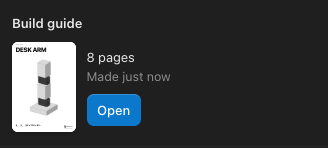
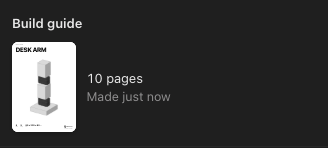
Leave one control for each job in the image viewer and the Build guide card
The image viewer's zoom readout already zoomed to fit, so the Fit button
beside it did the same thing. It's gone, and the readout now has the
Zoom to fit tooltip with its 0 shortcut. On the Build tab, the guide's
cover already opened the guide, so the Open button beside it is gone too.
The card keeps Update for an out-of-date guide, and the toast and Open
Build Guide in Command-K still open it. The Build and Design system
guides, the Make a build guide article and the Build guide troubleshooting
article follow, with both card screenshots recaptured.

Changed region(s): [[0.2439, 0.6216, 0.5183, 0.8649], [0.2439, 0.4865, 0.5183, 0.5946], [0.2439, 0.3514, 0.4268, 0.4324]]

diff --git a/src/design-system/ImageViewerZoomBar.tsx b/src/design-system/ImageViewerZoomBar.tsx
@@ -1,7 +1,8 @@
 import React from 'react';
-import { CloseIcon, FitIcon, MinusIcon, PlusIcon } from './glyphs';
+import { CloseIcon, MinusIcon, PlusIcon } from './glyphs';
 import { IconButton } from './IconButton';
 import { IslandDivider } from './FloatingIsland';
+import { Tooltip } from './Tooltip';
 
 interface ImageViewerZoomBarProps {
   zoom: string;
@@ -28,14 +29,16 @@ export const ImageViewerZoomBar: React.FC<ImageViewerZoomBarProps> = ({
         tooltipSide="bottom"
         onClick={onZoomOut}
       />
-      <button
-        type="button"
-        onClick={onFit}
-        className="h-[32px] min-w-14 px-1.5 rounded-lg text-[13px] text-white/90 tabular hover:bg-white/[0.07] cursor-default"
-        aria-label="Zoom to fit"
-      >
-        {zoom}
-      </button>
+      <Tooltip label="Zoom to fit" shortcut="0" side="bottom">
+        <button
+          type="button"
+          onClick={onFit}
+          className="h-[32px] min-w-14 px-1.5 rounded-lg text-[13px] text-white/90 tabular hover:bg-white/[0.07] cursor-default"
+          aria-label="Zoom to fit"
+        >
+          {zoom}
+        </button>
+      </Tooltip>
       <IconButton
         icon={<PlusIcon className="w-4 h-4" />}
         title="Zoom in"
@@ -43,14 +46,6 @@ export const ImageViewerZoomBar: React.FC<ImageViewerZoomBarProps> = ({
         size="sm"
         tooltipSide="bottom"
         onClick={onZoomIn}
-      />
-      <IconButton
-        icon={<FitIcon className="w-4 h-4" />}
-        title="Zoom to fit"
-        shortcut="0"
-        size="sm"
-        tooltipSide="bottom"
-        onClick={onFit}
       />
       <IslandDivider />
       <IconButton

diff --git a/src/components/build/GuideSection.tsx b/src/components/build/GuideSection.tsx
@@ -85,16 +85,13 @@ const Made: React.FC<{ guide: BuildGuide; record: BuildGuideRecord }> = ({ guide
       <div className={`text-[12.5px] mt-0.5 ${guide.stale ? 'text-amber-400' : 'text-white/50'}`}>
         {guide.stale ? 'Out of date' : `Made ${agoPhrase(record.generatedAt)}`}
       </div>
-      <div className="flex gap-2 mt-2.5">
-        <Button size="sm" variant={guide.stale ? 'secondary' : 'primary'} onClick={() => void guide.open()}>
-          Open
-        </Button>
-        {guide.stale && (
+      {guide.stale && (
+        <div className="flex gap-2 mt-2.5">
           <Button size="sm" variant="primary" onClick={() => void guide.generate()}>
             Update
           </Button>
-        )}
-      </div>
+        </div>
+      )}
     </>
   );
 };

diff --git a/docs/guide/build.md b/docs/guide/build.md
@@ -75,8 +75,8 @@ The Build tab (right panel) and the agent's build tools turn a model into someth
     - **Supplies you add** (`project.extras`; there's no separate Supplies section): + in the header (`AddSupplyMenu`: Power, Wiring, Electronics, Tools) adds one, or one more of a supply already added, and opens its group. Filament isn't offered: it comes from the printed parts, in grams. Every line's quantity is a button (`QtyEditor`) that opens On hand, the count the person owns (saved app-wide, with a toast and Undo); on a line you added it opens Quantity, On hand and Delete (which asks first), and filament lines added by older scenes get On hand and Delete. The agent's note on an extra shows beside the spec.
     - The header's spreadsheet menu shows only when there are lines: CSV Spreadsheet, Markdown, then Buy All and the other stores' links.
     - **Buy All** (`cart.ts`, `bomCart`) fills one Amazon cart from the list: `/gp/aws/cart/add.html` with numbered `ASIN.n` / `Quantity.n` pairs, in line order, for every line with units left to buy and an ASIN (a checked listing's, else a catalog or sourced product link on amazon.com). Quantity is packs of the units left to buy, rounded up: the checked listing's pack size, else one piece (a 1,000 g spool for filament), so 6 servos sold in pairs are 3 and 13 screws sold by the hundred are 1. A line with no ASIN goes to its store instead: a checked or sourced listing elsewhere, else the list price's store page, grouped under the store's host name below Buy All, one item per line, since stores take no shared cart link. Only https links count, an ASIN must pass `parseAsin`, and the cart is always built on amazon.com, so a forged ASIN or a lookalike host never reaches it (§0h). Lines left with no link keep their row link (an Amazon search). Supplies join the cart only when they have a product link (the ones the agent sources); a catalog supply's search stays a search. Buy All is in ⌘K too (listed while the cart has an ASIN). It opens through `openLink` (`utils/openLink.ts`), the app's one external-link path: the system browser on desktop, a new tab in the web demo. No account and no affiliate tag.
-  - **Build guide** (`GuideSection`, `src/guide/`), after the bill of materials: a step-by-step assembly PDF, made with Make Guide (off until the scene has built parts). Making one runs in a worker (`guide.worker.ts`; `generateGuide` packs the parts, the worker measures contacts, plans, draws and writes the HTML, the main thread saves the PDF), so the app stays responsive and you can keep working; a toast with Open says when it's done. While it runs, the card keeps its cover (the new cover replaces it as soon as it's drawn), shows the step being drawn, the time left once it can be estimated, and Stop. A made guide offers Open; an out-of-date one says so in amber and adds Update. ⌘K has the same three as Make Build Guide, Open Build Guide and Update Build Guide (§11). There's no Regenerate: a guide reads Out of date whenever a redraw could come back different. That's when its fingerprint changes (`guideFingerprint`: the title, material, infill as printed on the front pages, built parts, joints and `GUIDE_VERSION`), or when its order search stopped at the 20 s limit (`orderTimedOut` on the record), so a later run may check the steps that say “Order not checked”. Bump `GUIDE_VERSION` in any change to the planner, the drawings or item names that changes what a made guide shows, so every guide redraws. Every scene with built parts keeps a current guide (`useGuideAutoUpdate`, Settings ▸ Build ▸ Build guide ▸ Update automatically, on by default): 15 s after the guide goes out of date, while no agent in the scene is working, it makes or updates the guide quietly, with no toast on success or failure. Background runs go one at a time across tabs. Stop, a failed run or another timed-out order search leaves that version alone until the scene changes again; opening another scene in the tab cancels a run. Steps follow the order `check_assembly` proves (`provenOrder.ts`); parts the planner couldn't place come first by the heuristic, and their steps say “Order not checked”.
-    - **Open** (the cover, the Open button, the toast, the agent's guide link) shows the guide in the app (`GuideViewer`), not the system PDF viewer. The HTML the PDF is printed from is kept beside it (`library/guides/<id>.html`, read with `guide:html`), parsed into pages, each in its own shadow root with one shared stylesheet (`guide/viewer/`), and prefetched at idle. A guide with no saved HTML is regenerated, then opened; Open PDF and Show in Finder regenerate a PDF that was moved or deleted the same way (`withPdf`, which checks `guide:exists` first), so no error sends anyone to a button; if the system still can't open or show the PDF, a toast says so. The cover thumbnail flies into the first page on a spring (`springEasing.ts` turns a spring into a CSS `linear()` easing), keeping the thumbnail's tilt, while the next pages rise in behind it; closing flies the page nearest the centre back into the thumbnail. Pages fit the window height; pinch, ⌘-scroll or − / + / 0 zoom about the pointer, ← / → and the toolbar's arrows turn pages, Esc or the × at the top right closes. The toolbar floats at the bottom: Previous page, “3 of 60”, Next page, Zoom out, Zoom in, Build Along, Show in Finder, Open PDF.
+  - **Build guide** (`GuideSection`, `src/guide/`), after the bill of materials: a step-by-step assembly PDF, made with Make Guide (off until the scene has built parts). Making one runs in a worker (`guide.worker.ts`; `generateGuide` packs the parts, the worker measures contacts, plans, draws and writes the HTML, the main thread saves the PDF), so the app stays responsive and you can keep working; a toast with Open says when it's done. While it runs, the card keeps its cover (the new cover replaces it as soon as it's drawn), shows the step being drawn, the time left once it can be estimated, and Stop. A made guide opens from its cover, with no Open button beside it; an out-of-date one says so in amber and adds Update. ⌘K has Make Build Guide, Open Build Guide and Update Build Guide (§11). There's no Regenerate: a guide reads Out of date whenever a redraw could come back different. That's when its fingerprint changes (`guideFingerprint`: the title, material, infill as printed on the front pages, built parts, joints and `GUIDE_VERSION`), or when its order search stopped at the 20 s limit (`orderTimedOut` on the record), so a later run may check the steps that say “Order not checked”. Bump `GUIDE_VERSION` in any change to the planner, the drawings or item names that changes what a made guide shows, so every guide redraws. Every scene with built parts keeps a current guide (`useGuideAutoUpdate`, Settings ▸ Build ▸ Build guide ▸ Update automatically, on by default): 15 s after the guide goes out of date, while no agent in the scene is working, it makes or updates the guide quietly, with no toast on success or failure. Background runs go one at a time across tabs. Stop, a failed run or another timed-out order search leaves that version alone until the scene changes again; opening another scene in the tab cancels a run. Steps follow the order `check_assembly` proves (`provenOrder.ts`); parts the planner couldn't place come first by the heuristic, and their steps say “Order not checked”.
+    - **Open** (the cover, the toast, the agent's guide link) shows the guide in the app (`GuideViewer`), not the system PDF viewer. The HTML the PDF is printed from is kept beside it (`library/guides/<id>.html`, read with `guide:html`), parsed into pages, each in its own shadow root with one shared stylesheet (`guide/viewer/`), and prefetched at idle. A guide with no saved HTML is regenerated, then opened; Open PDF and Show in Finder regenerate a PDF that was moved or deleted the same way (`withPdf`, which checks `guide:exists` first), so no error sends anyone to a button; if the system still can't open or show the PDF, a toast says so. The cover thumbnail flies into the first page on a spring (`springEasing.ts` turns a spring into a CSS `linear()` easing), keeping the thumbnail's tilt, while the next pages rise in behind it; closing flies the page nearest the centre back into the thumbnail. Pages fit the window height; pinch, ⌘-scroll or − / + / 0 zoom about the pointer, ← / → and the toolbar's arrows turn pages, Esc or the × at the top right closes. The toolbar floats at the bottom: Previous page, “3 of 60”, Next page, Zoom out, Zoom in, Build Along, Show in Finder, Open PDF.
     - **Build Along** (`useBuildAlong`, `guide/buildAlong.ts`, `build/BuildAlongBar.tsx`) plays the guide on the canvas one step at a time. It opens from the viewer's toolbar and ⌘K (listed while the scene has built parts). It reads the plan the PDF was drawn from: `useBuildGuide` keeps the last generated `GuidePlan` with its `guideFingerprint`, and `currentPlan` regenerates first when the scene has changed since (the bar shows the run's progress meanwhile). There is no second planner. `buildAlongSteps` turns each step into what the canvas shows: every part placed so far plus the step's context (so the shown set only grows and ends at every built part), the step's moves and arrows, its callout counts with the PDF's item names (“4 × M3 × 6 Socket Head Screw”), and a label on each servo the step adds, with its joint's name and bus ID from `servoLayout` (“Shoulder lift, ID 2”), the numbering the joint map and Operate's Connect use. ← / → step, orbit stays free, and Done at the bar's end (a ghost button, as in Measure's and Annotate's bars) or Esc closes and puts the camera back where it was; parts, visibility and selection are never edited. While it's open the workspace's other keys are off.
     - **Letters on parts**: with Label parts on (§8f), each printed part comes off the printer with its guide letter debossed on a hidden face. `partLetters` reads the same `GuidePlan` as Build Along, through `currentPlan`, so a letter on a part is always the one the PDF and Build Along call it.
     - **Parts ready** (`readySteps` in `print/tracker.ts`): a step whose printed parts (not set to Don't print) all count as printed in the Prints tracker (§8f) shows a done mark: the green circle check beside “3 of 12” in Build Along (the toolbar's `data-ready`), and the PDF's own check mark (`checkMark`, the done page's mark) beside the step number in the viewer. Steps with no printed part never show it. The viewer reads the step parts the record saved (`BuildGuideRecord.stepParts`, from the plan the pages were drawn from) and finds each step by the `data-step` index on its number; guides made before it have no marks. The marks follow the tracker live and are never printed in the PDF.

diff --git a/docs/guide/design-system.md b/docs/guide/design-system.md
@@ -7,7 +7,7 @@ Part of the Basecase guide. [AGENTS.md](../../AGENTS.md) holds the rules every c
 Use these primitives. Never hand-roll a styled `<button>` or input when one fits.
 
 - `Button` (primary, secondary, ghost, danger, contrast; xs/sm/md; optional `title` + `shortcut` tooltip)
-- `MenuItem` (shared by `PopoverMenu` and `ContextMenu`): `tone: 'danger'` paints the label and its icon red. Every menu draws its icons at one size: `MenuIconSlot` (`menuGutter.tsx`) sets a 14px icon in the 16px column, for a submenu's row too, and ⌘K sets its own at 16px. Pass a menu entry's or command's icon without a size (`<DeleteIcon />`), so one element serves an action's right-click entry and its ⌘K command. Labels in one menu line up: when any item leads with an icon or a tick column (`checked`, even `false`), an item with neither keeps an empty 16px column in their place (`menuGutter.tsx`). Each menu surface is its own scope: a `ContextMenu` decides from its entries, while a `PopoverMenu` or a submenu counts the items rendered in it, so a submenu never shifts the menu that opened it. Never pass `checked={false}` or an empty span to fake the column. A menu's Rename, Duplicate and Delete come from `renameEntry`, `duplicateEntry` and `deleteEntry` (`menuEntries.tsx`), so each has one label and icon in every menu (Delete red, with an optional shortcut). Delete, and any other red entry such as the canvas's Delete Marks, comes last, below its own divider: `ContextMenu` moves its red entries to the end behind one divider and drops doubled dividers and ones at either end (`arrangeMenu` in `menuOrder.ts`), so a caller lists its entries in any order and never adds that divider itself. A `PopoverMenu` lays out its children as given, so it puts a `MenuDivider` before its `deleteEntry` by hand (the Routine menu, a supply's quantity menu). Duplicate wears `DuplicateIcon` wherever it appears, Inspector buttons and the part commands included; `CopyIcon` is Copy's alone. The same holds for every action in buttons, menus and ⌘K: Stop wears `StopIcon` (`CloseIcon` is for Close, Cancel, Remove and clearing a field), New Scene `PlusIcon` like New Case and New Routine (`ComposeIcon` is the agent's new chat), Save to Library `BookmarkAddIcon`, Run Checks `CheckIcon`, Compare `CompareIcon`, Coach `CoachIcon`, and Recheck `RefreshIcon`, which also marks Retry and Update from Onshape. `CrosshairIcon` is Center on Origin's alone: Zoom to Selection wears `FitIcon`, like the image viewer's Zoom to fit, and Reset View wears `RotateLeftIcon`, like Reset Rotation.
+- `MenuItem` (shared by `PopoverMenu` and `ContextMenu`): `tone: 'danger'` paints the label and its icon red. Every menu draws its icons at one size: `MenuIconSlot` (`menuGutter.tsx`) sets a 14px icon in the 16px column, for a submenu's row too, and ⌘K sets its own at 16px. Pass a menu entry's or command's icon without a size (`<DeleteIcon />`), so one element serves an action's right-click entry and its ⌘K command. Labels in one menu line up: when any item leads with an icon or a tick column (`checked`, even `false`), an item with neither keeps an empty 16px column in their place (`menuGutter.tsx`). Each menu surface is its own scope: a `ContextMenu` decides from its entries, while a `PopoverMenu` or a submenu counts the items rendered in it, so a submenu never shifts the menu that opened it. Never pass `checked={false}` or an empty span to fake the column. A menu's Rename, Duplicate and Delete come from `renameEntry`, `duplicateEntry` and `deleteEntry` (`menuEntries.tsx`), so each has one label and icon in every menu (Delete red, with an optional shortcut). Delete, and any other red entry such as the canvas's Delete Marks, comes last, below its own divider: `ContextMenu` moves its red entries to the end behind one divider and drops doubled dividers and ones at either end (`arrangeMenu` in `menuOrder.ts`), so a caller lists its entries in any order and never adds that divider itself. A `PopoverMenu` lays out its children as given, so it puts a `MenuDivider` before its `deleteEntry` by hand (the Routine menu, a supply's quantity menu). Duplicate wears `DuplicateIcon` wherever it appears, Inspector buttons and the part commands included; `CopyIcon` is Copy's alone. The same holds for every action in buttons, menus and ⌘K: Stop wears `StopIcon` (`CloseIcon` is for Close, Cancel, Remove and clearing a field), New Scene `PlusIcon` like New Case and New Routine (`ComposeIcon` is the agent's new chat), Save to Library `BookmarkAddIcon`, Run Checks `CheckIcon`, Compare `CompareIcon`, Coach `CoachIcon`, and Recheck `RefreshIcon`, which also marks Retry and Update from Onshape. `CrosshairIcon` is Center on Origin's alone: Zoom to Selection wears `FitIcon`, and Reset View wears `RotateLeftIcon`, like Reset Rotation.
 - `IconButton` (required `title`, `shortcut`, `isActive` solid accent, `isToggled` soft fill; xs/sm/md/lg). `variant="send"` with `className="rounded-full"` is the round white button that sends what's typed: the agent composer's Send, Update and Stop, and a comment's Post.
 - Every button and menu item that deletes is drawn in the danger tone: an `IconButton` with `DeleteIcon` or a “Delete …” title takes `variant="danger"` (grey until hover, then red), a `Button` labeled Delete takes `variant="danger"` (Delete Price), and a menu entry labeled Delete takes `tone: 'danger'` (`deleteEntry` sets it, Delete Marks included). That holds for marks, printers, queued messages, chats, comments, Routine steps, parts and prices. ⌘K's commands have no tone, Delete among them. `deleteTone.test.ts` fails a grey one in a `.tsx` file.
 - Both take `className="rounded-full"` for a fully round button: `sizeRadius` drops the size's own radius, because Tailwind's stylesheet order, not class order, decides which radius wins and `rounded-lg` beats `rounded-full`. Any other whole-button radius passed through `className` needs `!`.
@@ -44,5 +44,5 @@ Use these primitives. Never hand-roll a styled `<button>` or input when one fits
   - The Parts card (`CatalogDetails`, components only: hardware opens its page and has no tiles) previews the part page in its words: the hero (no badge), the name, the maker line (`makerSubtitle`) and the description, then the page's Key specs (`keySpecs`: Size across the card, the rest below), then a footer with Buy on Amazon and icon links, shown only when the part has links. Mounting stays on the part page; see [Layout](layout.md) §5.
 - `useScrollFade(px?, axis?)`: returns `{ ref, style }` for a scroll container; fades top and bottom (left and right with `axis: 'x'`) only while content is hidden past them.
 - Thumbnails (`three/partThumbnails.ts`) render at 480 × 360 with a studio environment map, so metals read on dark tiles; dark parts get more exposure.
-- `ImageViewer`: full-window image viewer. Pinch or ⌘-scroll zooms at the pointer, two-finger scroll and drag pan, double-click toggles fit / 100%+, − + 0 keys, ← → and a filmstrip for several images, Esc or a backdrop click closes. Controls float in glass islands.
+- `ImageViewer`: full-window image viewer. Pinch or ⌘-scroll zooms at the pointer, two-finger scroll and drag pan, double-click toggles fit / 100%+, − + 0 keys, ← → and a filmstrip for several images, Esc or a backdrop click closes. Controls float in glass islands: Zoom out, the zoom readout, which zooms to fit (0), Zoom in and Close. A control never sits beside another that does its job, so there's no separate fit button.
 - Tokens in `theme.ts` (`THEME_COLORS`, `LAYOUT`, `DRAG_REGION`, `NO_DRAG_REGION`) mirror the `@theme` block in `index.css`.

diff --git a/site/content/help/make-a-build-guide.md b/site/content/help/make-a-build-guide.md
@@ -1,7 +1,7 @@
 ---
 title: Make a build guide
 date: 2026-11-13
-updated: 2026-11-13
+updated: 2026-11-14
 collection: build-and-print
 type: task
 order: 7
@@ -29,9 +29,9 @@ Basecase turns your design into a step-by-step assembly guide and saves it as a 
 
 1. In the **Build** tab, find **Build guide**.
 2. Click **Make Guide**. The card shows which step it's drawing and how much time is left. You can keep working while it runs.
-3. Once a toast says the guide is made, click **Open**.
+3. Once a toast says the guide is made, click **Open** in the toast, or click the guide's cover on the card.
 
-   ![The Build guide card with an 8-page guide made just now and an Open button](/help/make-a-build-guide/current.png)
+   ![The Build guide card with the cover of a 10-page guide made just now](/help/make-a-build-guide/current.png)
 
 4. To turn the pages, press [[→]] or [[←]].
 5. To close the guide, press [[Esc]].
@@ -44,9 +44,9 @@ To zoom, pinch or press + and −. In the desktop app, **Open PDF** opens the fi
 
 ## Keep it current
 
-If you change the design, or the infill in Print mode, the card reads **Out of date** in amber, with **Update** beside **Open**. **Update Build Guide** in [[⌘K]] does the same.
+If you change the design, or the infill in Print mode, the card reads **Out of date** in amber, with an **Update** button. **Update Build Guide** in [[⌘K]] does the same.
 
-![The Build guide card reading Out of date, with Open and Update buttons](/help/make-a-build-guide/out-of-date.png)
+![The Build guide card reading Out of date, with an Update button](/help/make-a-build-guide/out-of-date.png)
 
 Basecase updates the guide on its own 15 seconds after your last change, once the agent finishes. Each update redraws only the steps that show the parts you changed.
 

diff --git a/site/content/help/troubleshoot-build-guide-wont-make.md b/site/content/help/troubleshoot-build-guide-wont-make.md
@@ -1,7 +1,7 @@
 ---
 title: Build guide won't make or open
 date: 2026-11-13
-updated: 2026-11-13
+updated: 2026-11-14
 collection: troubleshooting
 type: troubleshooting
 order: 6
@@ -46,6 +46,10 @@ A guide also shows Out of date if its order check hit the 20-second limit. The n
 
 1. Click **Update** in **Build guide**.
 2. To have Basecase update the guide for you, press [[⌘,]], choose **Build**, then turn on **Update automatically**.
+
+## The cover won't open the guide
+
+The guide opens from its cover once a run ends. While Basecase makes or updates the guide, the cover doesn't open it. To open the guide you had before, click **Stop**.
 
 ## Show in Finder and Open PDF are missing
 
